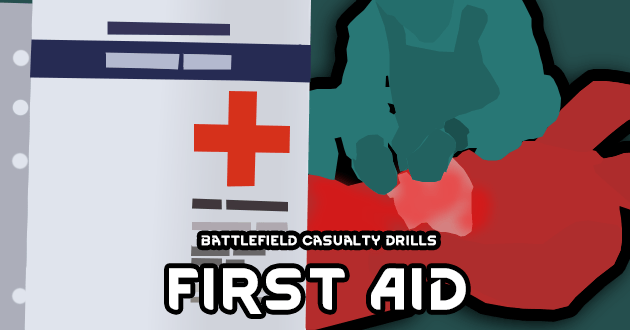
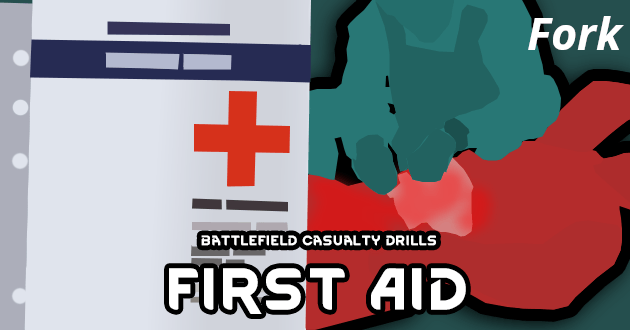
Prepare workshop upload

Changed region(s): [[0.8143, 0.0303, 0.9952, 0.1515]]

diff --git a/1.6/Source/FirstAid/HarmonyPatches.cs b/1.6/Source/FirstAid/HarmonyPatches.cs
@@ -9,7 +9,7 @@ internal static class HarmonyInit
 {
 	static HarmonyInit()
 	{
-		Harmony harmony = new Harmony("CP.FirstAid");
+		Harmony harmony = new Harmony("rw.mod.BCDsFirstAid");
 		harmony.PatchAll();
 	}
 	
